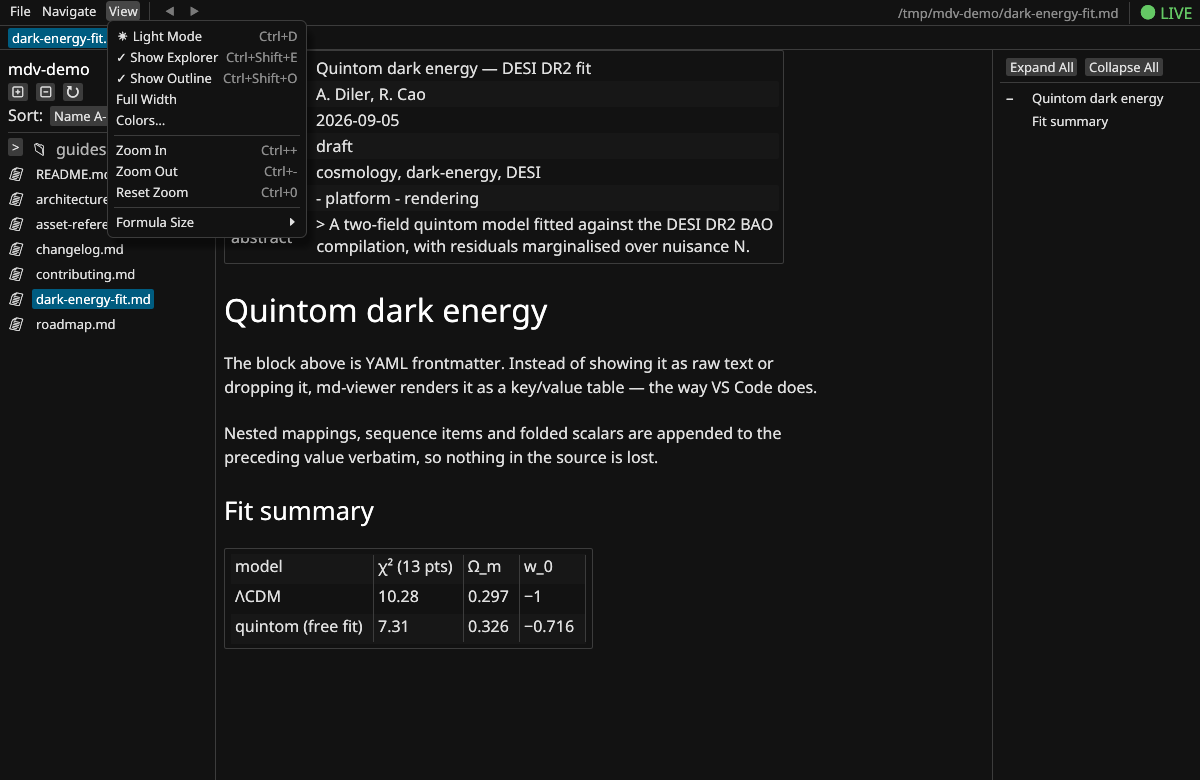
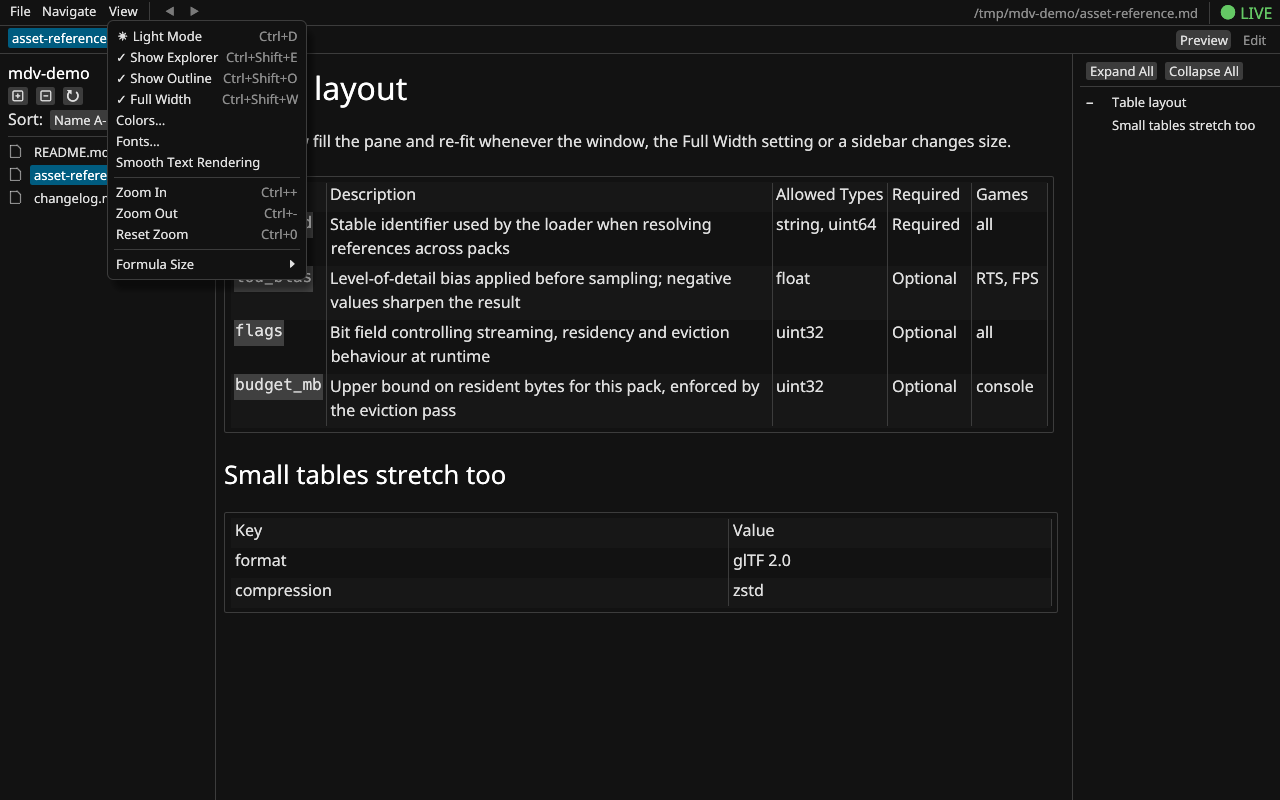
docs(readme): describe responsive tables and Full Width default; refresh two screenshots
Replace the v0.1.17-vs-0.2.0 table comparison with one screenshot of a
table filling the pane, retake the View menu (Full Width on by default,
Ctrl+Shift+W), and drop five screenshots the README no longer references.

diff --git a/README.md b/README.md
@@ -17,7 +17,7 @@ A fast, lightweight markdown viewer for Linux built with Rust and egui. Designed
 - **LaTeX Math** - Inline `$…$` and display `$$…$$` equations rendered via typst + mitex — fractions, sub/superscripts, `\boxed`, accents, matrices, and more — sized and baseline-aligned to the surrounding text
 - **Syntax Highlighting** - 200+ languages via syntect with beautiful color schemes
 - **Mermaid Diagrams** - Flowcharts, sequence diagrams, and more rendered natively via [merman](https://github.com/Latias94/merman) (click to enlarge)
-- **Tables that fit their content** - Column widths follow what each column actually needs, cell text wraps instead of clipping, and widths are optimized so rows wrap less; drag the dividers to override
+- **Tables that fill the pane** - Columns stretch proportionally to the available width and re-fit whenever the window, the Full Width setting or a sidebar changes size; cell text wraps instead of clipping, and you can drag the dividers to override
 - **HTML Tables** - Rendered as formatted grids with proper cell padding
 - **YAML Frontmatter** - A leading `---` block renders as a key/value table instead of raw text
 - **Images & SVG** - Embedded and remote image support (PNG, JPEG, GIF, SVG, HTTP URLs)
@@ -29,11 +29,9 @@ A fast, lightweight markdown viewer for Linux built with Rust and egui. Designed
 
 ![Syntax highlighting and a mermaid sequence diagram](screenshots/syntax-highlighting.png)
 
-*Wide tables, same document and same window width. In v0.1.17 the last three columns were cut off at the pane edge and reachable only by scrolling the table sideways; in 0.2.0 every column fits and long cell text wraps instead of being clipped*
+*Tables use the full width of the pane: wide tables wrap their cell text, small ones stretch, and both re-fit as you resize the window or the sidebars*
 
-| v0.1.17 | 0.2.0 |
-|---|---|
-| ![Table columns clipped in v0.1.17](screenshots/tables-before.png) | ![Table columns fitted in 0.2.0](screenshots/tables-after.png) |
+![Tables filling the document pane](screenshots/tables.png)
 
 *A leading `---` block renders as a key/value table rather than raw text; nested items and folded scalars keep their source spelling*
 
@@ -56,7 +54,7 @@ A fast, lightweight markdown viewer for Linux built with Rust and egui. Designed
 ### View
 - **Dark & Light Themes** - Toggle with Ctrl+D
 - **Zoom** - 50% to 300% zoom (Ctrl++/-/0 or Ctrl+Scroll)
-- **Full Width** - Toggle between the reading-width column and the full content pane; prose and tables follow it together
+- **Full Width** - On by default; toggle between the full content pane and a reading-width column (Ctrl+Shift+W); prose and tables follow it together
 - **Formula Size** - Scale rendered math from 100% to 150% (View → Formula Size), independent of UI zoom
 - **Keyboard Scrolling** - Scroll documents with ↑/↓ by line or Page Up/Page Down by page when the find bar is closed
 - **Live Reload** - Auto-refresh on file changes (enabled by default)
@@ -64,7 +62,7 @@ A fast, lightweight markdown viewer for Linux built with Rust and egui. Designed
 - **Font Selection** - Browse and apply installed system fonts via View menu (searchable, persistent)
 - **Smooth Text Rendering** - Optional toggle (View → Smooth Text Rendering) that disables glyph pixel-snapping for less jagged-looking text at fractional zoom levels
 
-*Full Width, Formula Size and the colour picker all live in the View menu*
+*Full Width (Ctrl+Shift+W), fonts, Formula Size and the colour picker all live in the View menu*
 
 ![The View menu](screenshots/view-menu.png)
 
